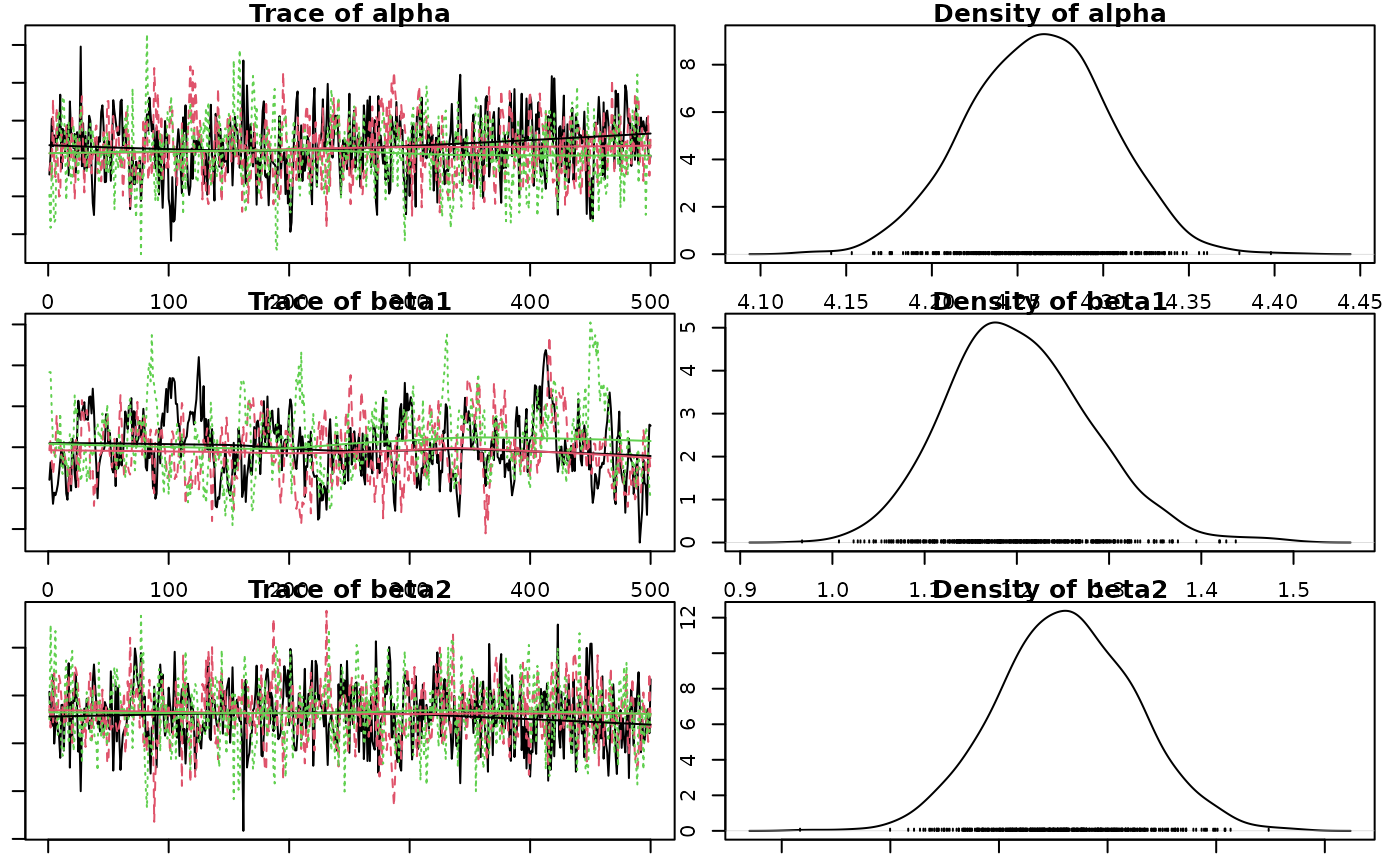
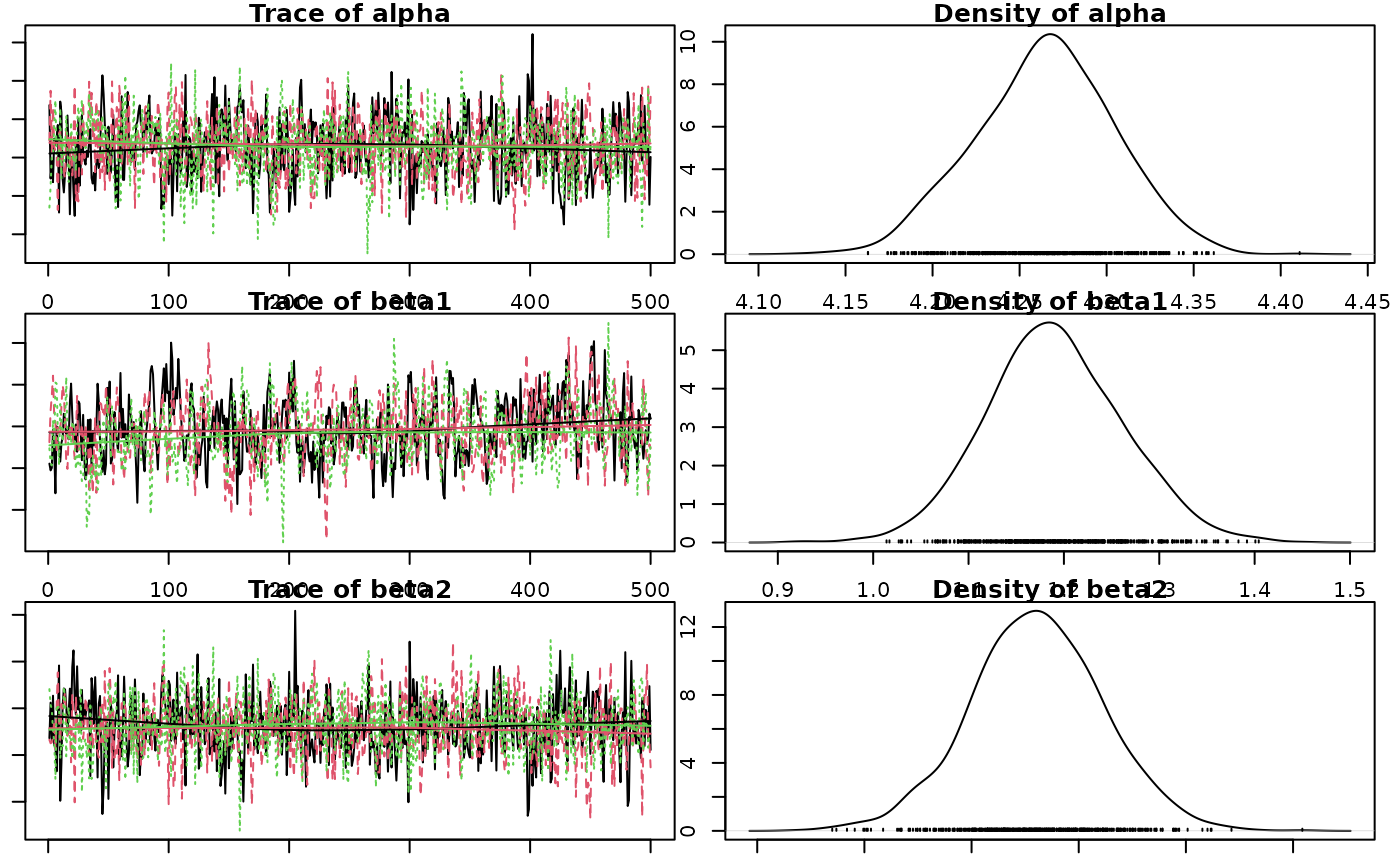
Deploying to gh-pages from @ poissonconsulting/jmbr@6d1ff5159e1a1b0185fa8cf1044d4875c90de5d8 🚀

diff --git a/articles/jmbr.html b/articles/jmbr.html
@@ -24,7 +24,7 @@
 
     <a class="navbar-brand me-2" href="../index.html">jmbr</a>
 
-    <small class="nav-text text-muted me-auto" data-bs-toggle="tooltip" data-bs-placement="bottom" title="">0.0.0.9153</small>
+    <small class="nav-text text-muted me-auto" data-bs-toggle="tooltip" data-bs-placement="bottom" title="">0.0.0.9154</small>
 
 
     <button class="navbar-toggler" type="button" data-bs-toggle="collapse" data-bs-target="#navbar" aria-controls="navbar" aria-expanded="false" aria-label="Toggle navigation">
@@ -285,14 +285,14 @@ value and discarding all other values.</p>
 <span><span class="co">#&gt; <span style="color: #949494;"># A tibble: 1 × 8</span></span></span>
 <span><span class="co">#&gt;       n     K nchains niters nthin   ess  rhat converged</span></span>
 <span><span class="co">#&gt;   <span style="color: #949494; font-style: italic;">&lt;int&gt;</span> <span style="color: #949494; font-style: italic;">&lt;int&gt;</span>   <span style="color: #949494; font-style: italic;">&lt;int&gt;</span>  <span style="color: #949494; font-style: italic;">&lt;int&gt;</span> <span style="color: #949494; font-style: italic;">&lt;int&gt;</span> <span style="color: #949494; font-style: italic;">&lt;int&gt;</span> <span style="color: #949494; font-style: italic;">&lt;dbl&gt;</span> <span style="color: #949494; font-style: italic;">&lt;lgl&gt;</span>    </span></span>
-<span><span class="co">#&gt; <span style="color: #BCBCBC;">1</span>    40     6       3    500    10   202  1.02 TRUE</span></span>
+<span><span class="co">#&gt; <span style="color: #BCBCBC;">1</span>    40     6       3    500    10   178  1.06 FALSE</span></span>
 <span><span class="co">#&gt; Warning in value[[3L]](cond): beep() could not play the sound due to the following error:</span></span>
 <span><span class="co">#&gt; Error in play.default(x, rate, ...): no audio drivers are available</span></span>
 <span><span class="va">analysis</span> <span class="op">&lt;-</span> <span class="fu"><a href="https://rdrr.io/pkg/embr/man/reanalyse.html" class="external-link">reanalyse</a></span><span class="op">(</span><span class="va">analysis</span><span class="op">)</span></span>
 <span><span class="co">#&gt; <span style="color: #949494;"># A tibble: 1 × 8</span></span></span>
 <span><span class="co">#&gt;       n     K nchains niters nthin   ess  rhat converged</span></span>
 <span><span class="co">#&gt;   <span style="color: #949494; font-style: italic;">&lt;int&gt;</span> <span style="color: #949494; font-style: italic;">&lt;int&gt;</span>   <span style="color: #949494; font-style: italic;">&lt;int&gt;</span>  <span style="color: #949494; font-style: italic;">&lt;int&gt;</span> <span style="color: #949494; font-style: italic;">&lt;int&gt;</span> <span style="color: #949494; font-style: italic;">&lt;int&gt;</span> <span style="color: #949494; font-style: italic;">&lt;dbl&gt;</span> <span style="color: #949494; font-style: italic;">&lt;lgl&gt;</span>    </span></span>
-<span><span class="co">#&gt; <span style="color: #BCBCBC;">1</span>    40     6       3    500    10   202  1.02 TRUE</span></span>
+<span><span class="co">#&gt; <span style="color: #BCBCBC;">1</span>    40     6       3    500    20   381  1.01 TRUE</span></span>
 <span><span class="co">#&gt; Warning in value[[3L]](cond): beep() could not play the sound due to the following error:</span></span>
 <span><span class="co">#&gt; Error in play.default(x, rate, ...): no audio drivers are available</span></span></code></pre></div>
 <p><strong>Analysis Table:</strong></p>
@@ -336,12 +336,12 @@ between- and within-chain estimates for model parameters.
 <span><span class="co">#&gt; <span style="color: #949494;"># A tibble: 6 × 5</span></span></span>
 <span><span class="co">#&gt;   term        estimate   lower   upper svalue</span></span>
 <span><span class="co">#&gt;   <span style="color: #949494; font-style: italic;">&lt;term&gt;</span>         <span style="color: #949494; font-style: italic;">&lt;dbl&gt;</span>   <span style="color: #949494; font-style: italic;">&lt;dbl&gt;</span>   <span style="color: #949494; font-style: italic;">&lt;dbl&gt;</span>  <span style="color: #949494; font-style: italic;">&lt;dbl&gt;</span></span></span>
-<span><span class="co">#&gt; <span style="color: #BCBCBC;">1</span> alpha         4.26    4.18    4.34   10.6  </span></span>
-<span><span class="co">#&gt; <span style="color: #BCBCBC;">2</span> beta1         1.20    1.06    1.36   10.6  </span></span>
-<span><span class="co">#&gt; <span style="color: #BCBCBC;">3</span> beta2        -<span style="color: #BB0000;">0.019</span><span style="color: #BB0000; text-decoration: underline;">0</span> -<span style="color: #BB0000;">0.078</span><span style="color: #BB0000; text-decoration: underline;">7</span>  0.045<span style="text-decoration: underline;">4</span>  0.861</span></span>
-<span><span class="co">#&gt; <span style="color: #BCBCBC;">4</span> beta3        -<span style="color: #BB0000;">0.275</span>  -<span style="color: #BB0000;">0.357</span>  -<span style="color: #BB0000;">0.202</span>  10.6  </span></span>
-<span><span class="co">#&gt; <span style="color: #BCBCBC;">5</span> log_sAnnual  -<span style="color: #BB0000;">2.22</span>   -<span style="color: #BB0000;">2.97</span>   -<span style="color: #BB0000;">1.73</span>   10.6  </span></span>
-<span><span class="co">#&gt; <span style="color: #BCBCBC;">6</span> sAnnual       0.109   0.051<span style="text-decoration: underline;">1</span>  0.178  10.6</span></span></code></pre></div>
+<span><span class="co">#&gt; <span style="color: #BCBCBC;">1</span> alpha         4.27    4.19    4.34   10.6  </span></span>
+<span><span class="co">#&gt; <span style="color: #BCBCBC;">2</span> beta1         1.19    1.05    1.33   10.6  </span></span>
+<span><span class="co">#&gt; <span style="color: #BCBCBC;">3</span> beta2        -<span style="color: #BB0000;">0.019</span><span style="color: #BB0000; text-decoration: underline;">7</span> -<span style="color: #BB0000;">0.080</span><span style="color: #BB0000; text-decoration: underline;">4</span>  0.041<span style="text-decoration: underline;">4</span>  0.943</span></span>
+<span><span class="co">#&gt; <span style="color: #BCBCBC;">4</span> beta3        -<span style="color: #BB0000;">0.269</span>  -<span style="color: #BB0000;">0.343</span>  -<span style="color: #BB0000;">0.200</span>  10.6  </span></span>
+<span><span class="co">#&gt; <span style="color: #BCBCBC;">5</span> log_sAnnual  -<span style="color: #BB0000;">2.24</span>   -<span style="color: #BB0000;">3.35</span>   -<span style="color: #BB0000;">1.76</span>   10.6  </span></span>
+<span><span class="co">#&gt; <span style="color: #BCBCBC;">6</span> sAnnual       0.107   0.035<span style="text-decoration: underline;">2</span>  0.172  10.6</span></span></code></pre></div>
 <p>The estimate is the <strong>median</strong> by default.</p>
 <p>The s-value is the <strong>suprisal</strong> value, which is a
 measure of directionality with respect to zero.</p>

diff --git a/news/index.html b/news/index.html
@@ -7,7 +7,7 @@
 
     <a class="navbar-brand me-2" href="../index.html">jmbr</a>
 
-    <small class="nav-text text-muted me-auto" data-bs-toggle="tooltip" data-bs-placement="bottom" title="">0.0.0.9153</small>
+    <small class="nav-text text-muted me-auto" data-bs-toggle="tooltip" data-bs-placement="bottom" title="">0.0.0.9154</small>
 
 
     <button class="navbar-toggler" type="button" data-bs-toggle="collapse" data-bs-target="#navbar" aria-controls="navbar" aria-expanded="false" aria-label="Toggle navigation">
@@ -33,6 +33,10 @@
       <small>Source: <a href="https://github.com/poissonconsulting/jmbr/blob/main/NEWS.md" class="external-link"><code>NEWS.md</code></a></small>
     </div>
 
+    <div class="section level2">
+<h2 class="pkg-version" data-toc-text="0.0.0.9154" id="jmbr-0009154-2026-07-13">jmbr 0.0.0.9154 (2026-07-13)<a class="anchor" aria-label="anchor" href="#jmbr-0009154-2026-07-13"></a></h2>
+<ul><li>Same as previous version.</li>
+</ul></div>
     <div class="section level2">
 <h2 class="pkg-version" data-toc-text="0.0.0.9153" id="jmbr-0009153-2026-07-11">jmbr 0.0.0.9153 (2026-07-11)<a class="anchor" aria-label="anchor" href="#jmbr-0009153-2026-07-11"></a></h2>
 <ul><li>Same as previous version.</li>

diff --git a/404.html b/404.html
@@ -24,7 +24,7 @@
 
     <a class="navbar-brand me-2" href="https://poissonconsulting.github.io/jmbr/index.html">jmbr</a>
 
-    <small class="nav-text text-muted me-auto" data-bs-toggle="tooltip" data-bs-placement="bottom" title="">0.0.0.9153</small>
+    <small class="nav-text text-muted me-auto" data-bs-toggle="tooltip" data-bs-placement="bottom" title="">0.0.0.9154</small>
 
 
     <button class="navbar-toggler" type="button" data-bs-toggle="collapse" data-bs-target="#navbar" aria-controls="navbar" aria-expanded="false" aria-label="Toggle navigation">

diff --git a/articles/index.html b/articles/index.html
@@ -7,7 +7,7 @@
 
     <a class="navbar-brand me-2" href="../index.html">jmbr</a>
 
-    <small class="nav-text text-muted me-auto" data-bs-toggle="tooltip" data-bs-placement="bottom" title="">0.0.0.9153</small>
+    <small class="nav-text text-muted me-auto" data-bs-toggle="tooltip" data-bs-placement="bottom" title="">0.0.0.9154</small>
 
 
     <button class="navbar-toggler" type="button" data-bs-toggle="collapse" data-bs-target="#navbar" aria-controls="navbar" aria-expanded="false" aria-label="Toggle navigation">

diff --git a/reference/index.html b/reference/index.html
@@ -7,7 +7,7 @@
 
     <a class="navbar-brand me-2" href="../index.html">jmbr</a>
 
-    <small class="nav-text text-muted me-auto" data-bs-toggle="tooltip" data-bs-placement="bottom" title="">0.0.0.9153</small>
+    <small class="nav-text text-muted me-auto" data-bs-toggle="tooltip" data-bs-placement="bottom" title="">0.0.0.9154</small>
 
 
     <button class="navbar-toggler" type="button" data-bs-toggle="collapse" data-bs-target="#navbar" aria-controls="navbar" aria-expanded="false" aria-label="Toggle navigation">

diff --git a/reference/is.jmb_analysis.html b/reference/is.jmb_analysis.html
@@ -7,7 +7,7 @@
 
     <a class="navbar-brand me-2" href="../index.html">jmbr</a>
 
-    <small class="nav-text text-muted me-auto" data-bs-toggle="tooltip" data-bs-placement="bottom" title="">0.0.0.9153</small>
+    <small class="nav-text text-muted me-auto" data-bs-toggle="tooltip" data-bs-placement="bottom" title="">0.0.0.9154</small>
 
 
     <button class="navbar-toggler" type="button" data-bs-toggle="collapse" data-bs-target="#navbar" aria-controls="navbar" aria-expanded="false" aria-label="Toggle navigation">

diff --git a/reference/is.jmb_code.html b/reference/is.jmb_code.html
@@ -7,7 +7,7 @@
 
     <a class="navbar-brand me-2" href="../index.html">jmbr</a>
 
-    <small class="nav-text text-muted me-auto" data-bs-toggle="tooltip" data-bs-placement="bottom" title="">0.0.0.9153</small>
+    <small class="nav-text text-muted me-auto" data-bs-toggle="tooltip" data-bs-placement="bottom" title="">0.0.0.9154</small>
 
 
     <button class="navbar-toggler" type="button" data-bs-toggle="collapse" data-bs-target="#navbar" aria-controls="navbar" aria-expanded="false" aria-label="Toggle navigation">

diff --git a/reference/is.jmb_model.html b/reference/is.jmb_model.html
@@ -7,7 +7,7 @@
 
     <a class="navbar-brand me-2" href="../index.html">jmbr</a>
 
-    <small class="nav-text text-muted me-auto" data-bs-toggle="tooltip" data-bs-placement="bottom" title="">0.0.0.9153</small>
+    <small class="nav-text text-muted me-auto" data-bs-toggle="tooltip" data-bs-placement="bottom" title="">0.0.0.9154</small>
 
 
     <button class="navbar-toggler" type="button" data-bs-toggle="collapse" data-bs-target="#navbar" aria-controls="navbar" aria-expanded="false" aria-label="Toggle navigation">

diff --git a/reference/jmbr-package.html b/reference/jmbr-package.html
@@ -7,7 +7,7 @@
 
     <a class="navbar-brand me-2" href="../index.html">jmbr</a>
 
-    <small class="nav-text text-muted me-auto" data-bs-toggle="tooltip" data-bs-placement="bottom" title="">0.0.0.9153</small>
+    <small class="nav-text text-muted me-auto" data-bs-toggle="tooltip" data-bs-placement="bottom" title="">0.0.0.9154</small>
 
 
     <button class="navbar-toggler" type="button" data-bs-toggle="collapse" data-bs-target="#navbar" aria-controls="navbar" aria-expanded="false" aria-label="Toggle navigation">

diff --git a/index.html b/index.html
@@ -26,7 +26,7 @@
 
     <a class="navbar-brand me-2" href="index.html">jmbr</a>
 
-    <small class="nav-text text-muted me-auto" data-bs-toggle="tooltip" data-bs-placement="bottom" title="">0.0.0.9153</small>
+    <small class="nav-text text-muted me-auto" data-bs-toggle="tooltip" data-bs-placement="bottom" title="">0.0.0.9154</small>
 
 
     <button class="navbar-toggler" type="button" data-bs-toggle="collapse" data-bs-target="#navbar" aria-controls="navbar" aria-expanded="false" aria-label="Toggle navigation">

diff --git a/CODE_OF_CONDUCT.html b/CODE_OF_CONDUCT.html
@@ -7,7 +7,7 @@
 
     <a class="navbar-brand me-2" href="index.html">jmbr</a>
 
-    <small class="nav-text text-muted me-auto" data-bs-toggle="tooltip" data-bs-placement="bottom" title="">0.0.0.9153</small>
+    <small class="nav-text text-muted me-auto" data-bs-toggle="tooltip" data-bs-placement="bottom" title="">0.0.0.9154</small>
 
 
     <button class="navbar-toggler" type="button" data-bs-toggle="collapse" data-bs-target="#navbar" aria-controls="navbar" aria-expanded="false" aria-label="Toggle navigation">

diff --git a/CONTRIBUTING.html b/CONTRIBUTING.html
@@ -7,7 +7,7 @@
 
     <a class="navbar-brand me-2" href="index.html">jmbr</a>
 
-    <small class="nav-text text-muted me-auto" data-bs-toggle="tooltip" data-bs-placement="bottom" title="">0.0.0.9153</small>
+    <small class="nav-text text-muted me-auto" data-bs-toggle="tooltip" data-bs-placement="bottom" title="">0.0.0.9154</small>
 
 
     <button class="navbar-toggler" type="button" data-bs-toggle="collapse" data-bs-target="#navbar" aria-controls="navbar" aria-expanded="false" aria-label="Toggle navigation">
